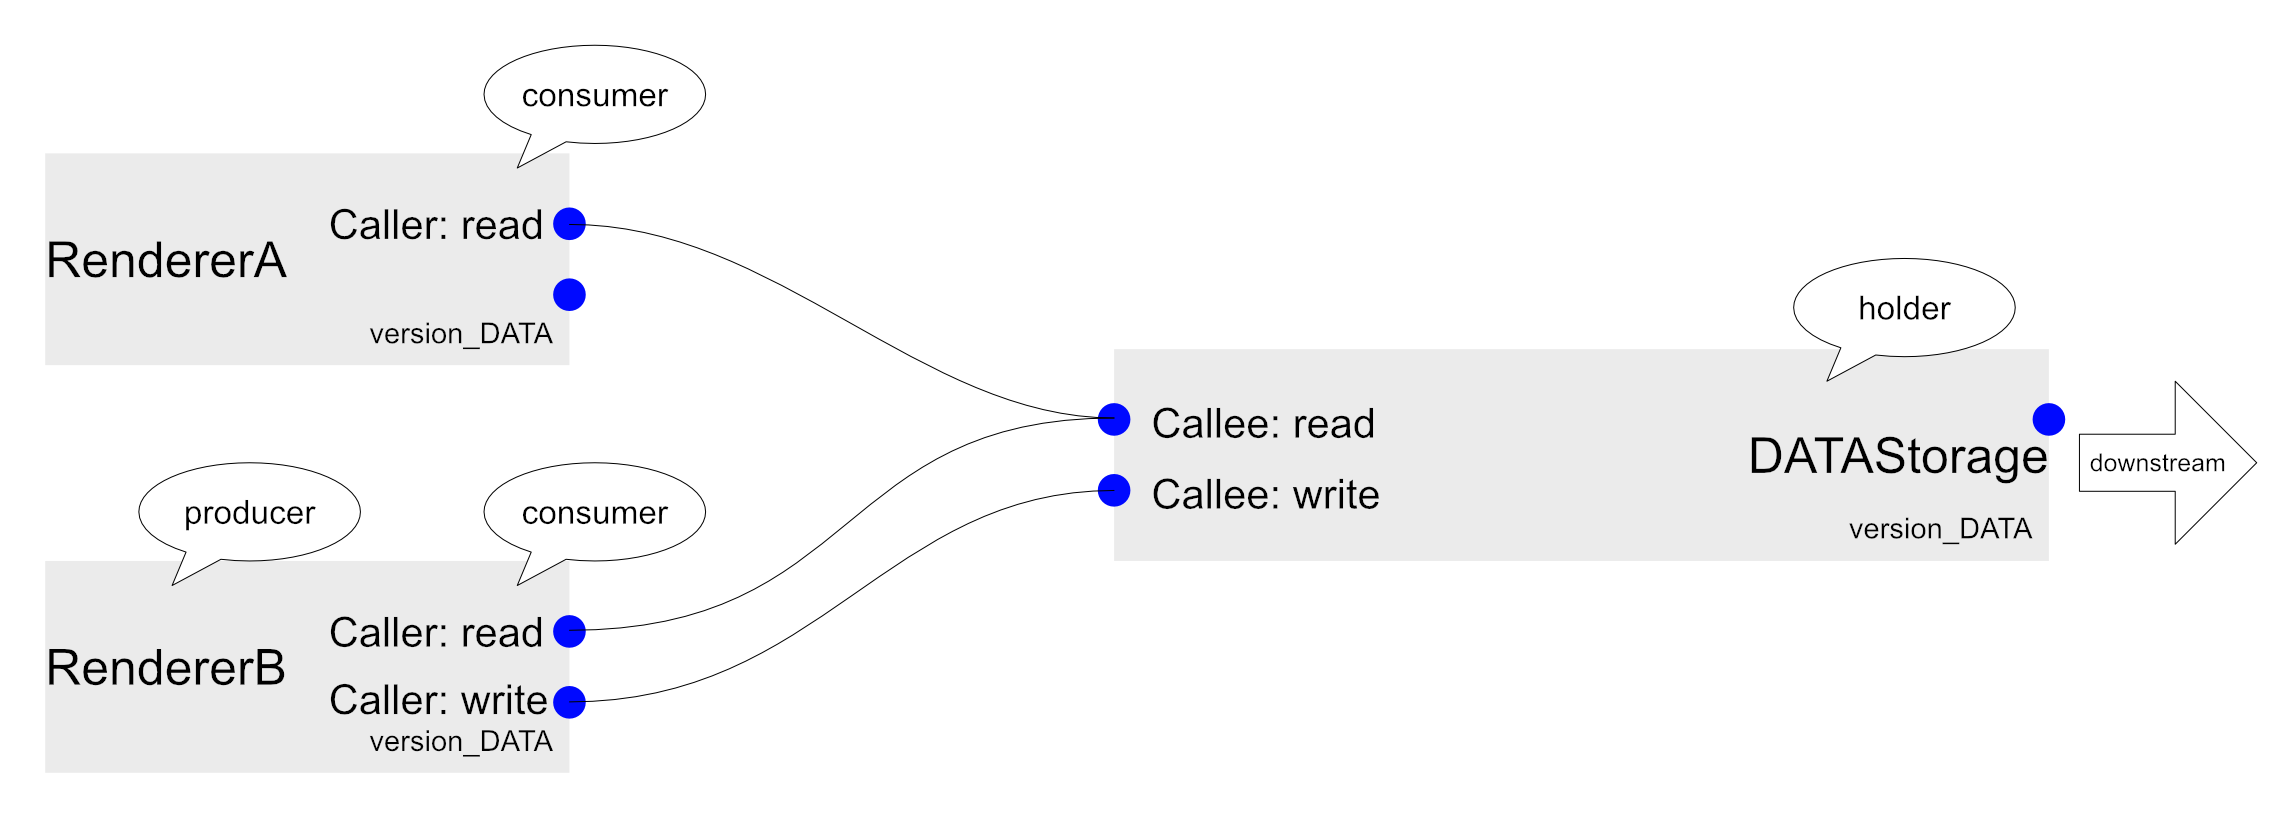
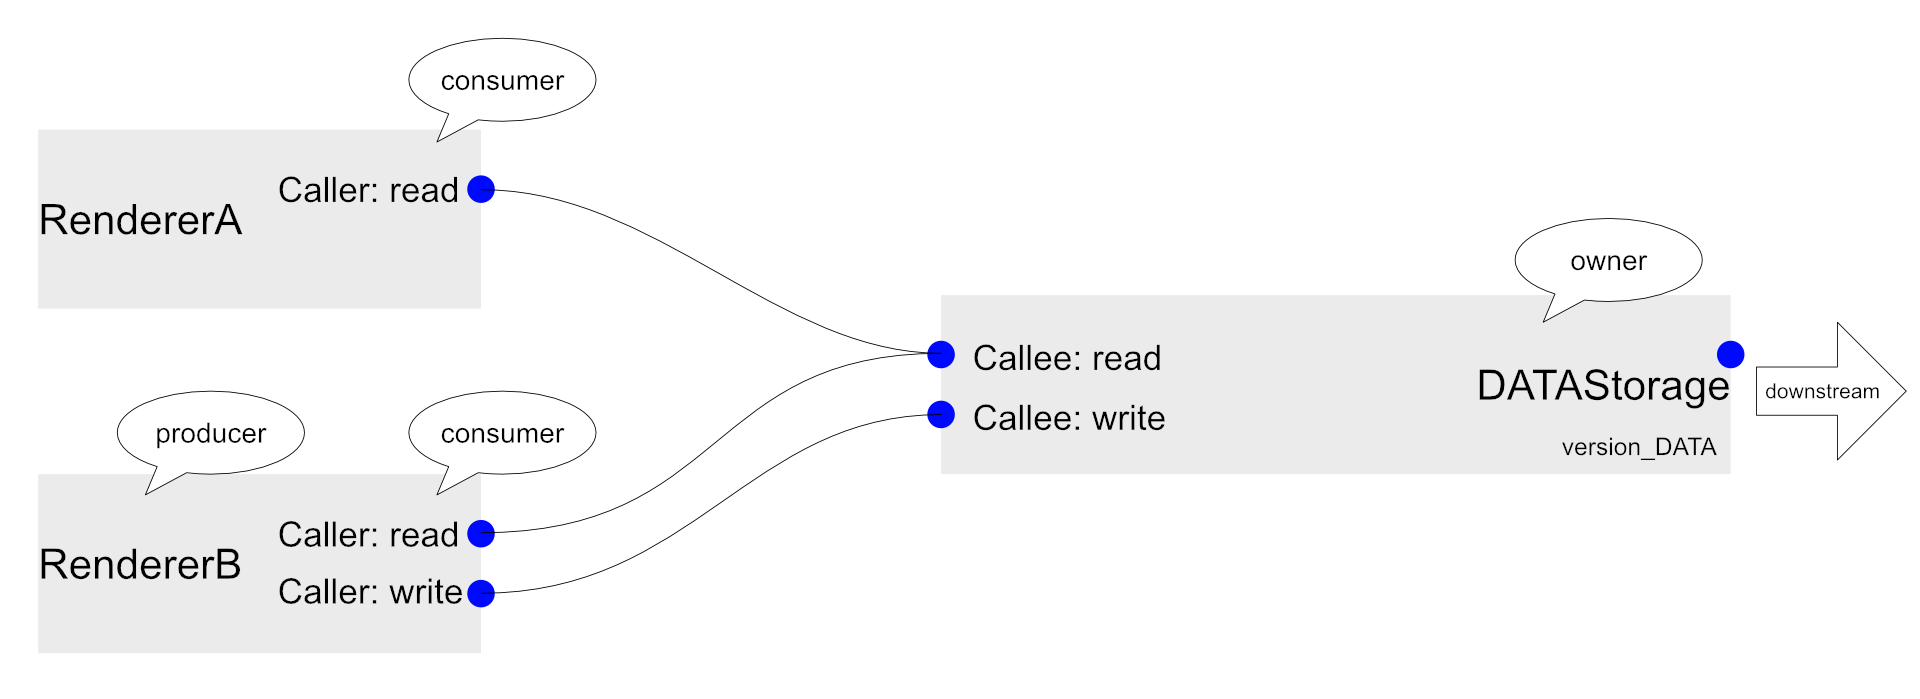
next bidirectional iteration

diff --git a/docs/devguide/devguide.md b/docs/devguide/devguide.md
@@ -12,9 +12,10 @@ This guide is intended to give MegaMol developers a useful insight into the inte
     - [Add own plugin using the template](#add-own-plugin-using-the-template)
   - [Create GLSL Shader with utility classes](#create-glsl-shader-with-utility-classes)
   - [Bi-Directional Communication across Modules](#bi-directional-communication-across-modules)
+    - [Definitions](#definitions)
     - [Recipe](#recipe)
-      - [Usage: ```DATACallRead```](#usage-datacallread)
-      - [Usage: ```DataCallWrite```](#usage-datacallwrite)
+      - [Interaction with the ```DATA``` from outside:](#interaction-with-the-data-from-outside)
+      - [*owner* Module:](#owner-module)
   - [Synchronized Selection across Modules](#synchronized-selection-across-modules)
     - [FlagStorage](#flagstorage)
     - [FlagStorage_GL](#flagstorage_gl)
@@ -97,41 +98,52 @@ You can have a look for an example in the ```FlagStorage_GL``` together with the
 We refer to the data passed around simply as ```DATA```, you can think of this as a struct containing everything changed by the corresponding Call.
 To properly track changes across several Modules, you need to follow the recipe.
 
+### Definitions
+- There is one Module holding and owning the ```DATA```. It is also responsible for resizing it (e.g. in occasion of an incoming update) and disposing it (on destruction). This is the *owner*. It can have a notion of what it is holding and manipulate the ```DATA```, but this is not necessary. It can also just be a container that is talked to by other modules.
+- There can be several Modules that read the ```DATA```. These are *consumer*s.
+- There can be several Modules that write/update the ```DATA```. These are *supplier*s.
+- Note that Modules that are *supplier*s automatically have *consumer* status as well, otherwise updates are lost.
 ### Recipe
 Split up the data flow for each direction, one call for reading only, one call for writing only.
 Keep in mind that the caller by definition is "left" in the module graph and the callee is "right". The callee is the end of a callback, but for this pattern this has nothing to do with the direction the data flows in, which results in the rules defined below.
 
 ![bidir example](bidir.png)
 
-- set up a ```uint32_t version_DATA``` in each Module
-- create a ```CallerSlot``` for ```DATACallRead``` for modules consuming the ```DATA```
-- (optional) create a ```CallerSlot``` for ```DATACallWrite``` for modules providing ```DATA```
-- create a ```CalleeSlot``` each for ```DATACallRead``` and ```DATACallWrite``` for modules holding the ```DATA```
+- set up a ```uint32_t version_DATA``` in the *owner*
 - Create a ```DATACallRead``` either instancing the ```core::GenericVersionedCall``` template, or making sure that the call can distinguish between the ```DATA``` version that was last **set** into the Call and that which was last **got** out of the Call
-- (optional) Create a ```DATACallWrite``` along the same lines
+- Create a ```DATACallWrite``` along the same lines
+- create a ```CalleeSlot``` each for ```DATACallRead``` and ```DATACallWrite``` for the *owner*
+- create a ```CallerSlot``` for ```DATACallRead``` for *consumer*s
+- create a ```CallerSlot``` for ```DATACallWrite``` for *supplier*s
 
-A module with slots for both directions by convention must, in this exact order:
-- execute the reading, overwriting its DATA with incoming update
-- apply logic that will modify the DATA (if parameters or user input cause this, for example)
-- provide DATA updates via writing.
+#### Interaction with the ```DATA``` from outside:
+This must always follow the same order to avoid inconsistencies:
+- if *consumer*: execute the reading:
+  - issue the Call ```(*call)(DATACallRead::CallGetData)``` or your specialized version
+  - check if something new is available: ```call::hasUpdate()```
+  - overwrite/replace what notion you had of ```DATA``` if there is an incoming update
+  - take note of the ```call::version()``` *V* of the incoming update.
+- if (also) *provider*:
+  - if you need to modify the ```DATA``` (parameters, other incoming data, or user input cause this, for example)
+    - write the update
+    - increase *V*
+  - **ALWAYS** set the ```DATA``` in the ```DATACallWrite```, supplying *V*
+  - **ALWAYS** issue the Call: ```(*call)(DATACallWrite::CallGetData)``` or your specialized version
 
-#### Usage: ```DATACallRead```
-- In the ```GetData``` callback, make sure you can *supply unchanged data very cheaply*.
-  - If parameters or incoming data (downstream!) have changed, modify your ```DATA``` accordingly, **increasing** your version.
-  - **ALWAYS** set the data in the call, supplying your version.
-- As a consumer
-    - issue the Call: ```(*call)(DATACallRead::CallGetData)``` or your specialized version
-    - check if something new is available: ```call::hasUpdate()```
-    - if necessary, fast-forward your own version to the available one ```version_DATA = GenericVersionedCall::version()```
+Since this should take place in the same callback, *V* does not need to be kept around beyond that, it will be re-fetched in the next cycle anyway.
 
-#### Usage: ```DataCallWrite```
+#### *owner* Module:
+
+Usage: ```DATACallRead```
+- In the ```GetData``` callback, make sure you can **supply unchanged data very cheaply**.
+  - If parameters or incoming data (downstream) have changed, modify your ```DATA``` accordingly, **increasing** ```version_DATA```.
+  - **ALWAYS** set the data in the call, supplying the version.
+  
+Usage: ```DataCallWrite```
 - In the ```GetData``` callback
-  - First check if the incoming set data is newer than what you last got: ```GenericVersionedCall::hasUpdate()```
-  - Fetch the data and if necessary, fast-forward your own version to the available one ```version_DATA = GenericVersionedCall::version()```
-- As a provider
-  - If parameters or incoming data have changed, modify your ```DATA``` accordingly, **increasing** your version.
-  - **ALWAYS** set the data in the call, supplying your version.
-  - issue the Call: ```(*call)(DATACallWrite::CallGetData)``` or your specialized version
+  - If the incoming set data is newer than what you last got: ```call::hasUpdate()```
+    - Fetch the data
+    - fast-forward version to the available one ```version_DATA = call::version()```
 
 
 <!-- ###################################################################### -->
